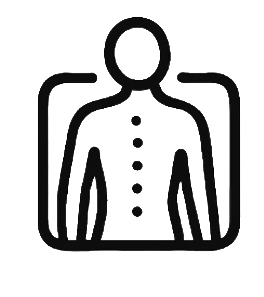
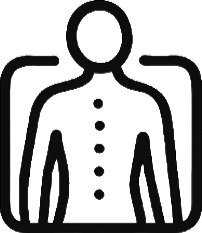
changes in front end

diff --git a/lib/screens/setup_mode_screen.dart b/lib/screens/setup_mode_screen.dart
@@ -294,97 +294,108 @@ Widget _buildCameraWithOverlay() {
                         )
                       : _buildCameraWithOverlay(),
             ),
-
-            // top bar
             Positioned(
-              left: 16 * s,
-              top: 12 * s,
+              left: 0,
+              right: 0,
+              top: 0,
               child: SafeArea(
-                child: InkWell(
-                  onTap: () => Navigator.pop(context),
-                  child: const Icon(Icons.arrow_back_rounded, color: Colors.white),
-                ),
-              ),
-            ),
-            Positioned(
-              left: 56 * s,
-              top: 14 * s,
-              right: 16 * s,
-              child: SafeArea(
-                child: Text(
-                  'Setup Mode',
-                  style: TextStyle(
-                    color: Colors.white.withValues(alpha: 0.92),
-                    fontSize: 14 * s,
-                    fontWeight: FontWeight.w600,
+                bottom: false,
+                child: Padding(
+                  padding: EdgeInsets.fromLTRB(12 * s, 10 * s, 12 * s, 0),
+                  child: Column(
+                    crossAxisAlignment: CrossAxisAlignment.start,
+                  children: [
+                      // Top bar
+                      Row(
+                        children: [
+                          InkWell(
+                            onTap: () => Navigator.pop(context),
+                            child: const Icon(Icons.arrow_back_rounded, color: Colors.white),
+                          ),
+                          SizedBox(width: 12 * s),
+                          Text(
+                            'Setup Mode',
+                            style: TextStyle(
+                              color: Colors.white.withValues(alpha: 0.92),
+                              fontSize: 14 * s,
+                              fontWeight: FontWeight.w600,
+                            ),
+                          ),
+                        ],
+                      ),
+                    ],
                   ),
                 ),
               ),
             ),
 
             // instruction card
-            if (!_setupReady) 
-              Positioned(
-                left: 18 * s,
-                right: 18 * s,
-                top: 86 * s,
-                child: Container(
-                  padding: EdgeInsets.all(14 * s),
-                  decoration: BoxDecoration(
-                    color: Colors.white,
-                    borderRadius: BorderRadius.circular(10 * s),
-                    boxShadow: [
-                      BoxShadow(
-                        color: const Color(0xFF000000).withValues(alpha: 0.35),
-                        blurRadius: 10,
-                        offset: const Offset(0, 4),
+            Positioned(
+              left: 18 * s,
+              right: 18 * s,
+              top: 40 * s,
+              child: Container(
+                padding: EdgeInsets.all(14 * s),
+                decoration: BoxDecoration(
+                  color: Colors.white,
+                  borderRadius: BorderRadius.circular(10 * s),
+                  boxShadow: [
+                    BoxShadow(
+                      color: const Color(0xFF000000).withValues(alpha: 0.35),
+                      blurRadius: 10,
+                      offset: const Offset(0, 4),
+                    ),
+                  ],
+                ),
+                child: Row(
+                  crossAxisAlignment: CrossAxisAlignment.start,
+                  children: [
+                    Container(
+                      width: 34 * s,
+                      height: 34 * s,
+                      decoration: const BoxDecoration(
+                        color: Color(0xFF00C951),
+                        shape: BoxShape.circle,
                       ),
-                    ],
-                  ),
-                  child: Row(
-                    crossAxisAlignment: CrossAxisAlignment.start,
-                    children: [
-                      Container(
-                        width: 34 * s,
-                        height: 34 * s,
-                        decoration: const BoxDecoration(
-                          color: Color(0xFF00C951),
-                          shape: BoxShape.circle,
-                        ),
+                      child: Icon(
+                        Icons.camera_alt_rounded,
+                        color: Colors.white,
+                        size: 20 * s,
                       ),
-                      SizedBox(width: 12 * s),
-                      Expanded(
-                        child: Column(
-                          crossAxisAlignment: CrossAxisAlignment.start,
-                          children: [
-                            Text(
-                              'Camera Setup',
-                              style: TextStyle(
-                                color: Colors.black,
-                                fontSize: 16 * s,
-                                fontWeight: FontWeight.w700,
-                              ),
+                    ),
+                    SizedBox(width: 12 * s),
+                    Expanded(
+                      child: Column(
+                        crossAxisAlignment: CrossAxisAlignment.start,
+                        children: [
+                          Text(
+                            'Camera Setup',
+                            style: TextStyle(
+                              color: Colors.black,
+                              fontSize: 16 * s,
+                              fontWeight: FontWeight.w700,
                             ),
-                            SizedBox(height: 6 * s),
-                            Text(
-                              'Position yourself within the frame\n'
-                              '• Stand 6–8 feet from camera\n'
-                              '• Ensure full body is visible\n'
-                              '• Face the camera directly\n'
-                              '• Good lighting recommended',
-                              style: TextStyle(
-                                color: const Color(0xFF797B7F),
-                                fontSize: 11 * s,
-                                height: 1.35,
-                              ),
+                          ),
+                          SizedBox(height: 6 * s),
+                          Text(
+                            'Position yourself within the frame\n'
+                            '• Stand 6–8 feet from camera\n'
+                            '• Ensure full body is visible\n'
+                            '• Face the camera directly\n'
+                            '• Good lighting recommended',
+                            style: TextStyle(
+                              color: const Color(0xFF797B7F),
+                              fontSize: 11 * s,
+                              height: 1.35,
                             ),
-                          ],
-                        ),
+                          ),
+                        ],
                       ),
-                    ],
-                  ),
+                    ),
+                  ],
                 ),
               ),
+            ),
 
             // Done button
             Positioned(
@@ -418,7 +429,6 @@ Widget _buildCameraWithOverlay() {
                 ),
               ),
             ),
-            
             //just to check if the pose detection is working [pose counter]
             Positioned(
               left: 16 * s,

diff --git a/lib/screens/welcome_screen.dart b/lib/screens/welcome_screen.dart
@@ -10,8 +10,8 @@ class WelcomeFlowScreen extends StatefulWidget {
 class _WelcomeFlowScreenState extends State<WelcomeFlowScreen> {
   int _i = 0;
 
-  static const double _finalIconY = -0.25;
-  static const double _textGroupY = 0.22;
+  static const double _finalIconY = -0.27;
+  static const double _textGroupY = 0.26;
   static const double _coreRectTightenPx = 0;
 
   static const _frames = <({
@@ -55,8 +55,8 @@ class _WelcomeFlowScreenState extends State<WelcomeFlowScreen> {
     final s = size.width / 375.0;
 
     // Logo size relative to screen (keeps similar proportions)
-    final logoW = 203 * s;
-    final logoH = 229 * s;
+    final logoW = 175 * s;
+    final logoH = 201 * s;
 
     return Scaffold(
       backgroundColor: const Color.fromARGB(255, 18, 32, 47),
@@ -121,12 +121,14 @@ class _WelcomeFlowScreenState extends State<WelcomeFlowScreen> {
                             'WELCOME TO',
                             textAlign: TextAlign.center,
                             style: TextStyle(
+                              height: 0.6,
                               color: const Color(0xFF1F3447),
                               fontSize: 20 * s,
                               fontWeight: FontWeight.w500,
                               fontFamily: 'DM Sans',
                             ),
                           ),
+                          const SizedBox(height: 0),
                           Row(
                             mainAxisSize: MainAxisSize.min,
                             children: [

diff --git a/lib/screens/profile_setup_screen.dart b/lib/screens/profile_setup_screen.dart
@@ -150,9 +150,9 @@ class _ProfileSetUpScreenState extends State<ProfileSetUpScreen> {
                       title: 'Height',
                       valueText: '${_heightCm.round()}cm',
                       minText: '50cm',
-                      maxText: '500cm',
+                      maxText: '200cm',
                       min: 50,
-                      max: 500,
+                      max: 200,
                       value: _heightCm,
                       scale: s,
                       onChanged: (v) => setState(() => _heightCm = v),
